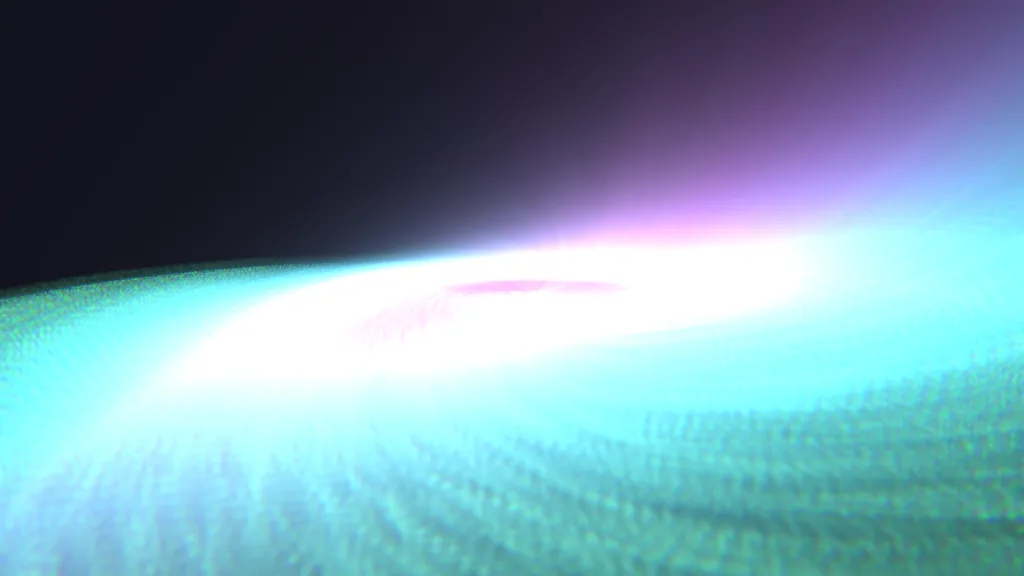
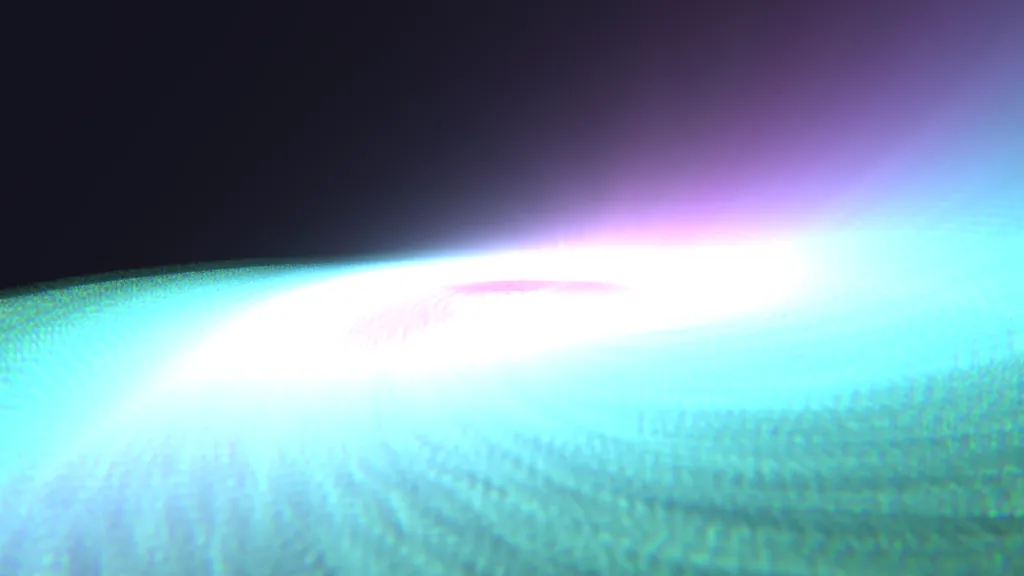
Cite the 2x render in the catalogue; re-render the site stills
The room lines follow Gupta & Sproull (1981) and the sprite floor follows
Mip-Splatting (Yu et al. 2024); both are now on /clouds with the rest of
the frame's sources. The landing page's preset stills are re-rendered
with scripts/render-site-shots.sh, since the room and the sprite floor
change the frame.

Claude-Session: https://claude.ai/code/session_0177cef8TiHFWd5zC7nVvaty

diff --git a/site/clouds/index.html b/site/clouds/index.html
@@ -1225,6 +1225,11 @@ leaving a blank that reads like a missing citation.</p>
   <p class="src ours"><b>Source:</b> vizz. Standard screen-space constructions with no particular paper behind them.</p>
 </div>
 <div class="piece">
+  <h3>Drawing at twice the size</h3>
+  <p>Up to 1080p the frame is drawn at twice the output's width and height and filtered down, which is the one thing that reliably cleans up a field of one-pixel sprites: against a 4× reference it takes out about half the error and more than half the frame-to-frame shimmer. Two things had to change for that to be safe. The room's lines were one-pixel hardware lines, so drawn at 2× they lost half their light; they are now quads one <em>output</em> pixel wide whose edge coverage is the exact overlap of a pixel with the line, so the room is equally bright at any scale and anti-aliased at 1× as well. And a sprite smaller than about a pixel and a half is widened to that size and dimmed by the area it gained, so it is low-passed instead of landing on a pixel centre or missing it.</p>
+  <p class="src"><b>Source:</b> the line coverage is the box-filter case of Satish Gupta and Robert Sproull, <a href="https://dl.acm.org/doi/10.1145/965161.806787">“Filtering Edges for Gray-Scale Displays”</a>, SIGGRAPH 1981. The sprite floor is the screen-space filter of Zehao Yu, Anpei Chen, Binbin Huang, Torsten Sattler and Andreas Geiger, <a href="https://niujinshuchong.github.io/mip-splatting/">“Mip-Splatting: Alias-free 3D Gaussian Splatting”</a>, CVPR 2024, applied to a disc instead of a Gaussian.</p>
+</div>
+<div class="piece">
   <h3>Gravity wells</h3>
   <p>Four attractors and repulsors bending the cloud from a layer above the scenes. Deliberately <em>not</em> a simulation: every particle here is a function of its index with no state between frames, and integrating velocities would throw that away for physics nobody is checking. The falloff is <code>r²/(d²+r²)</code> — one at the centre, a half at the radius, asymptotically nothing beyond — because a hard cutoff shows up as a visible shell in the cloud.</p>
   <p class="src ours"><b>Source:</b> vizz. A displacement field that reads as gravity, not a gravity model.</p>
@@ -1354,6 +1359,7 @@ instead — the citation is the thing to keep.</p>
   <li><strong>Tempo</strong> — autocorrelation of an onset-strength envelope, as set out in Daniel P. W. Ellis, <a href="https://www.ee.columbia.edu/~dpwe/pubs/Ellis07-beattrack.pdf">“Beat Tracking by Dynamic Programming”</a>, <em>Journal of New Music Research</em> 36(1), 2007. vizz uses the tempo-estimation half and not the dynamic-programming beat tracker — a VJ needs the rate, and the phase comes from the pads.</li>
   <li><strong>Feedback trails</strong> — analogue video feedback, which is where this whole idiom comes from — Steina and Woody Vasulka's work and the <a href="https://en.wikipedia.org/wiki/Sandin_Image_Processor">Sandin Image Processor</a> (Dan Sandin, 1971–73). The implementation is an ordinary ping-pong of two <code>Rgba16Float</code> textures.</li>
   <li><strong>Kaleidoscope and lens</strong> — vizz. Standard screen-space constructions with no particular paper behind them.</li>
+  <li><strong>Drawing at twice the size</strong> — the line coverage is the box-filter case of Satish Gupta and Robert Sproull, <a href="https://dl.acm.org/doi/10.1145/965161.806787">“Filtering Edges for Gray-Scale Displays”</a>, SIGGRAPH 1981. The sprite floor is the screen-space filter of Zehao Yu, Anpei Chen, Binbin Huang, Torsten Sattler and Andreas Geiger, <a href="https://niujinshuchong.github.io/mip-splatting/">“Mip-Splatting: Alias-free 3D Gaussian Splatting”</a>, CVPR 2024, applied to a disc instead of a Gaussian.</li>
   <li><strong>Gravity wells</strong> — vizz. A displacement field that reads as gravity, not a gravity model.</li>
   <li><strong>Camera moves</strong> — vizz. The shapes are borrowed from camera work rather than from anything written down.</li>
 </ul>

diff --git a/crates/vizz-mod/examples/clouds_page.rs b/crates/vizz-mod/examples/clouds_page.rs
@@ -633,6 +633,12 @@ const ENGINE: &[Part] = &[
                 ours: true,
             },
             Piece {
+                name: "Drawing at twice the size",
+                about: r#"<p>Up to 1080p the frame is drawn at twice the output's width and height and filtered down, which is the one thing that reliably cleans up a field of one-pixel sprites: against a 4× reference it takes out about half the error and more than half the frame-to-frame shimmer. Two things had to change for that to be safe. The room's lines were one-pixel hardware lines, so drawn at 2× they lost half their light; they are now quads one <em>output</em> pixel wide whose edge coverage is the exact overlap of a pixel with the line, so the room is equally bright at any scale and anti-aliased at 1× as well. And a sprite smaller than about a pixel and a half is widened to that size and dimmed by the area it gained, so it is low-passed instead of landing on a pixel centre or missing it.</p>"#,
+                source: r#"the line coverage is the box-filter case of Satish Gupta and Robert Sproull, <a href="https://dl.acm.org/doi/10.1145/965161.806787">“Filtering Edges for Gray-Scale Displays”</a>, SIGGRAPH 1981. The sprite floor is the screen-space filter of Zehao Yu, Anpei Chen, Binbin Huang, Torsten Sattler and Andreas Geiger, <a href="https://niujinshuchong.github.io/mip-splatting/">“Mip-Splatting: Alias-free 3D Gaussian Splatting”</a>, CVPR 2024, applied to a disc instead of a Gaussian."#,
+                ours: false,
+            },
+            Piece {
                 name: "Gravity wells",
                 about: r#"<p>Four attractors and repulsors bending the cloud from a layer above the scenes. Deliberately <em>not</em> a simulation: every particle here is a function of its index with no state between frames, and integrating velocities would throw that away for physics nobody is checking. The falloff is <code>r²/(d²+r²)</code> — one at the centre, a half at the radius, asymptotically nothing beyond — because a hard cutoff shows up as a visible shell in the cloud.</p>"#,
                 source: "vizz. A displacement field that reads as gravity, not a gravity model.",
